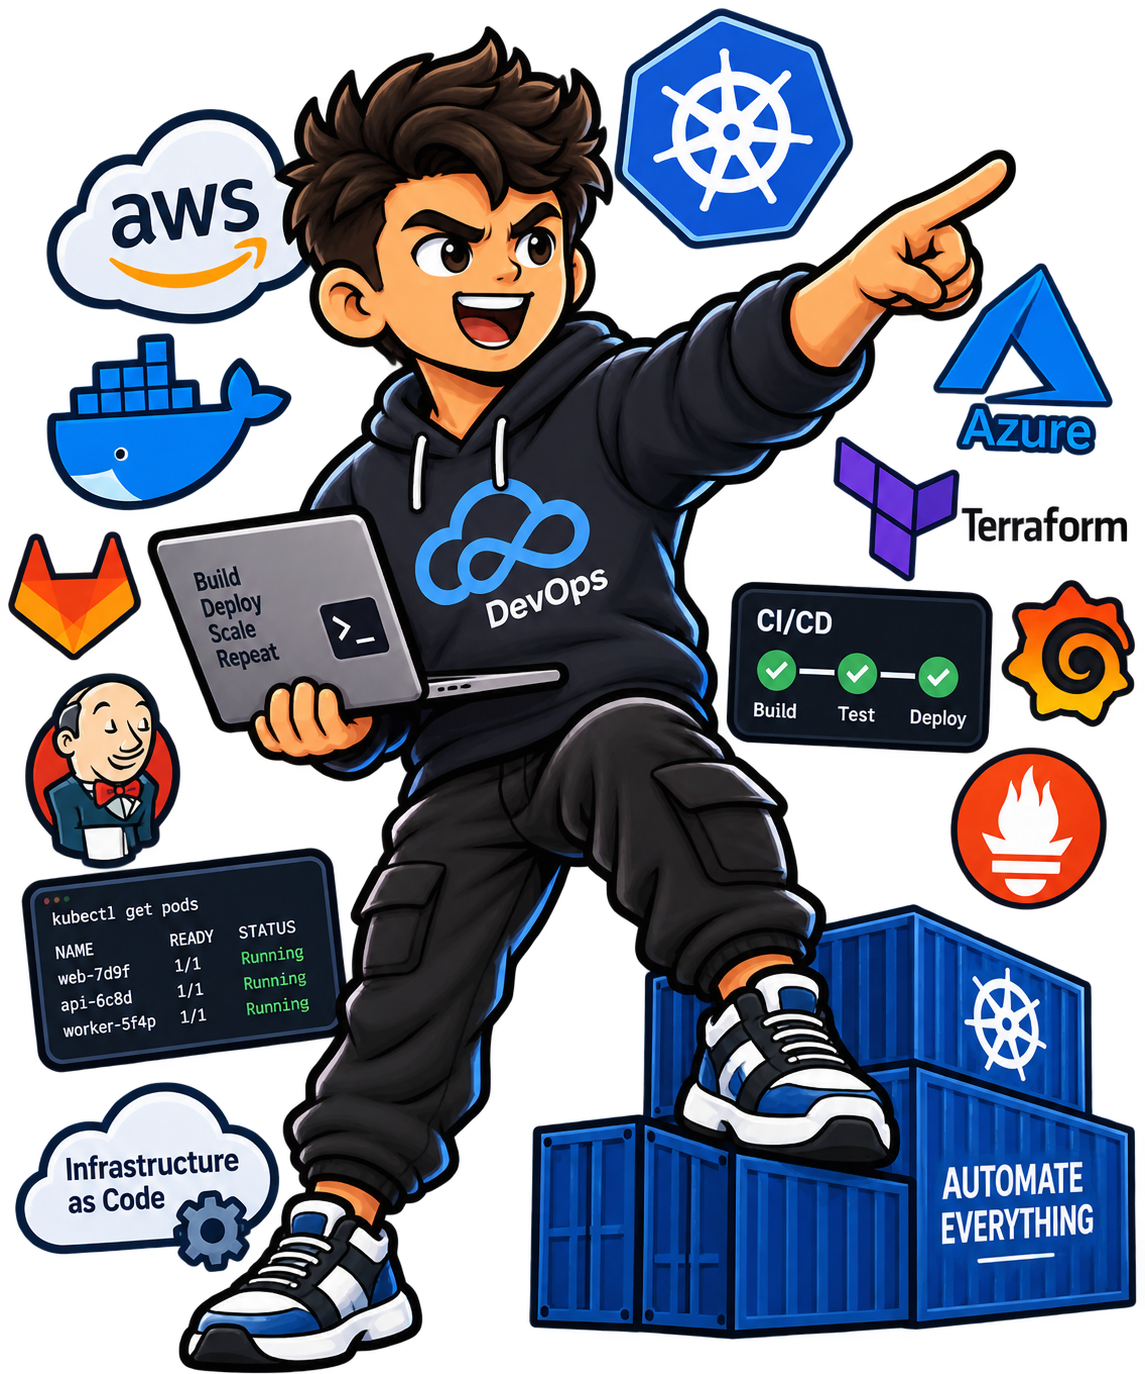
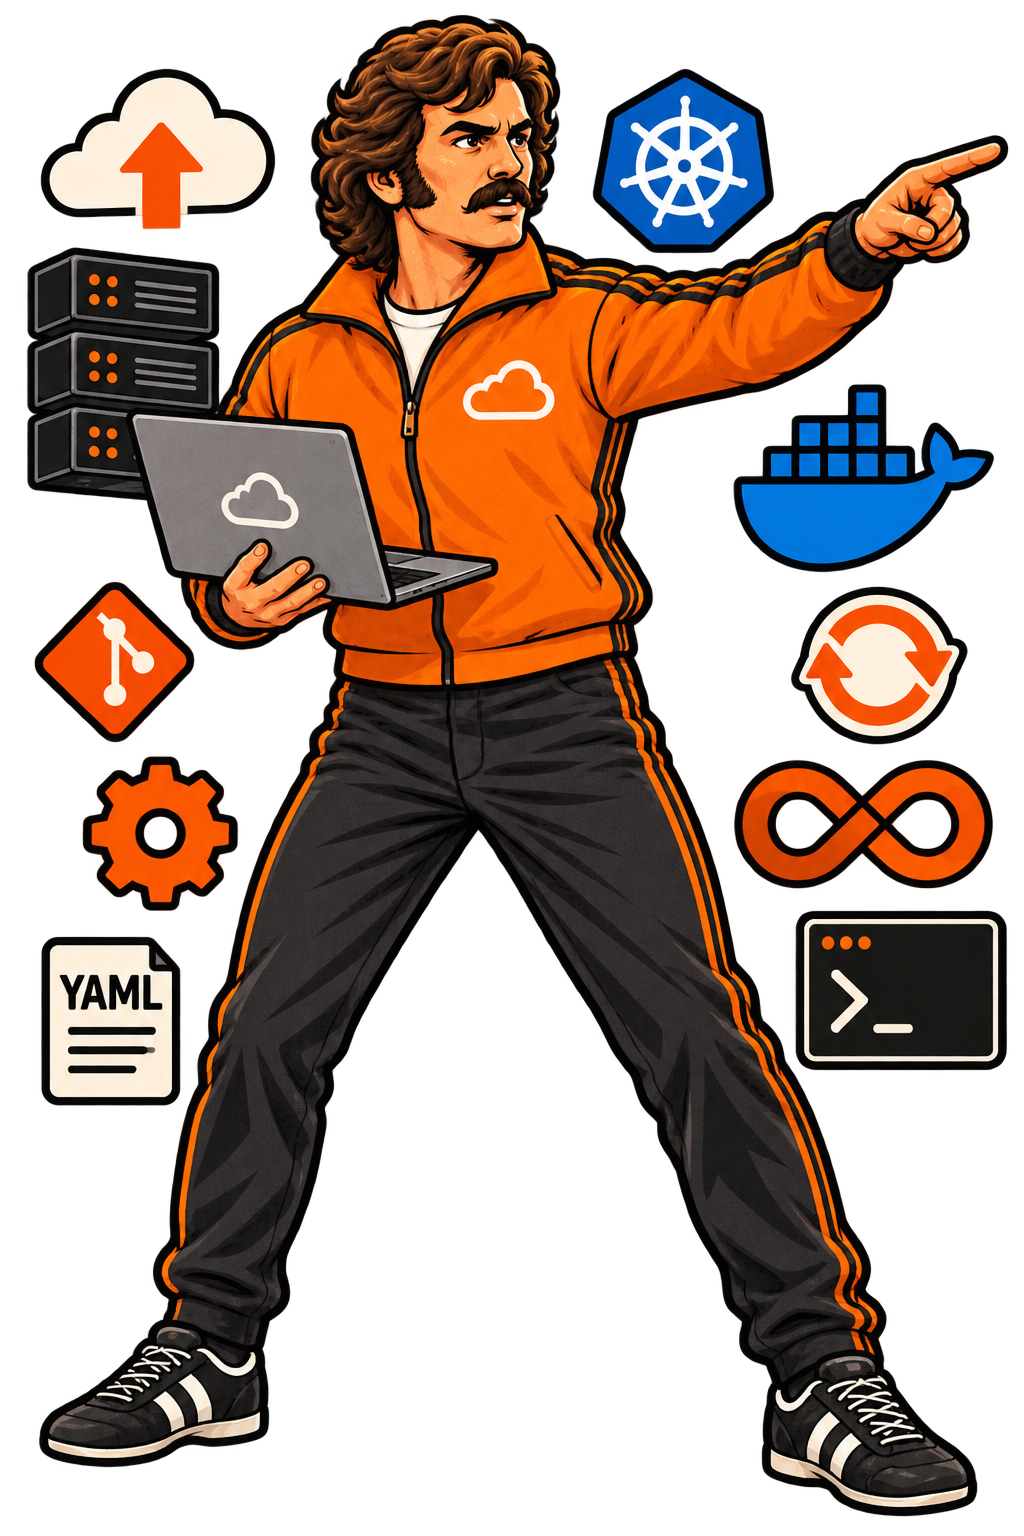
New DevOps figure
Claude-Session: https://claude.ai/code/session_01SJFgZ3ntddE1JVA3buEB2q

diff --git a/talk/index.html b/talk/index.html
@@ -397,7 +397,7 @@
 
     <div class="place stamp" data-obj="stamp5" style="left: 3900px; top: 1760px;">Does not exist</div>
     <div id="engs" class="place" style="left: 0; top: 0; width: 0; height: 0; overflow: visible;">
-    <img class="place figure" data-obj="eng1" src="img/dev-devops.png" alt="" style="left: 1846px; top: 1612px; width: 540px;">
+    <img class="place figure" data-obj="eng1" src="img/dev-devops.png?v=2" alt="" style="left: 1846px; top: 1612px; width: 540px;">
     <img class="place figure" data-obj="eng2" src="img/dev-qa.png" alt="" style="left: 2770px; top: 1612px; width: 540px;">
     <img class="place figure" data-obj="eng3" src="img/dev-be.png" alt="" style="left: 3692px; top: 1612px; width: 540px;">
     <img class="place figure" data-obj="eng4" src="img/dev-fe.png" alt="" style="left: 4616px; top: 1612px; width: 540px;">
